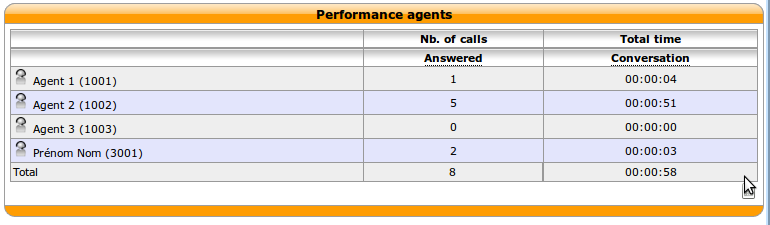
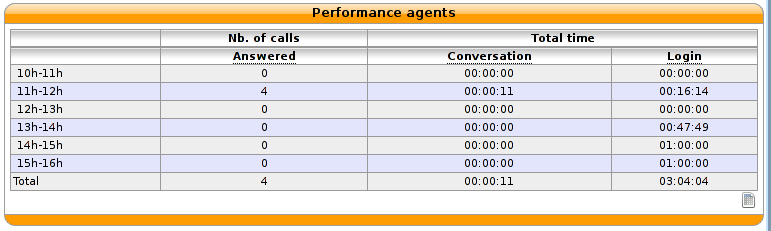
[evol] Add login timer and restrictions with new screenshot

Changed region(s): [[0.0, 0.0, 0.9974, 0.9956]]

diff --git a/source/contact_center/statistics/statistics.rst b/source/contact_center/statistics/statistics.rst
@@ -144,6 +144,10 @@ Counters
 
 * Answered: Number of calls answered by the agent.
 * Conversation: Total time spent for calls answered during a given period.
+* Login: Total login time of an agent.
+
+.. note:: The Login time counter only supports agent static login (\*31 or XiVO client).
+          Data generated before XiVO 12.18 might have erroneous results.
 
 .. note:: The agent performance counters do not take into account transfer
           between agents: if agent A processes a call and transfers it to agent
